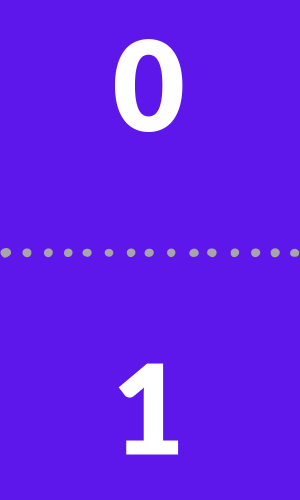
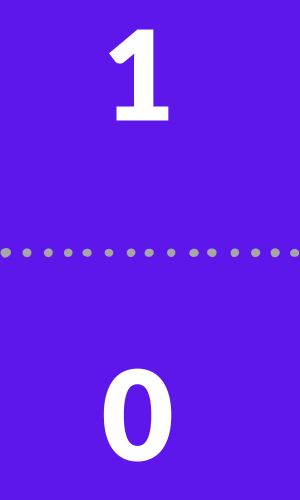
added random start

Changed region(s): [[0.36, 0.06, 0.63, 0.27], [0.33, 0.72, 0.6, 0.93]]

diff --git a/booleo.py b/booleo.py
@@ -10,9 +10,10 @@ class Gameplay:
         self.main()
         
     def setup(self):
-        start_bools = Start_Bools() 
+        self.start_bools = Start_Bools()
+        self.start_deck =[]
         for i in range (6) :
-            print(start_bools.get_starting_bit())
+            self.start_deck.append(Start_Bools())
     
     def main(self):
 
@@ -28,10 +29,14 @@ class Gameplay:
         #game_board = pygame.image.load('game_board.png')
 
         # Load the images for the game board
-        image= pygame.image.load('0.png')
+        images=[]
+        #image= pygame.image.load('0.png')
+        for card in self.start_deck:
+            images.append(pygame.transform.scale(pygame.image.load(card.get_img()), (100,150)))
+        #print(images)
         self.setup()
         # Resize the image
-        image = pygame.transform.scale(image, (100, 150))
+        #image = pygame.transform.scale(image, (100, 150))
 
 
         # Set up game variables
@@ -59,7 +64,7 @@ class Gameplay:
         # Define the space between images
             space_between_images = 40  # adjust this value as needed
 
-            images = [image, image, image, image, image, image]
+            #images = [image, image, image, image, image, image]
             for i, img in enumerate(images):
                 # Calculate the total width of one image plus the space
                 total_width = img.get_width() + space_between_images
@@ -90,10 +95,13 @@ class Start_Bools:
 
 
     def get_img(self):
+        print("test value", self.start_bit)
         if self.start_bit==0:
             self.image = '0.png'
+            print("true")
         else:
             self.image= '1.png'
+        return self.image
     
     def get_starting_bit(self):
         return random.randint(0,1)
